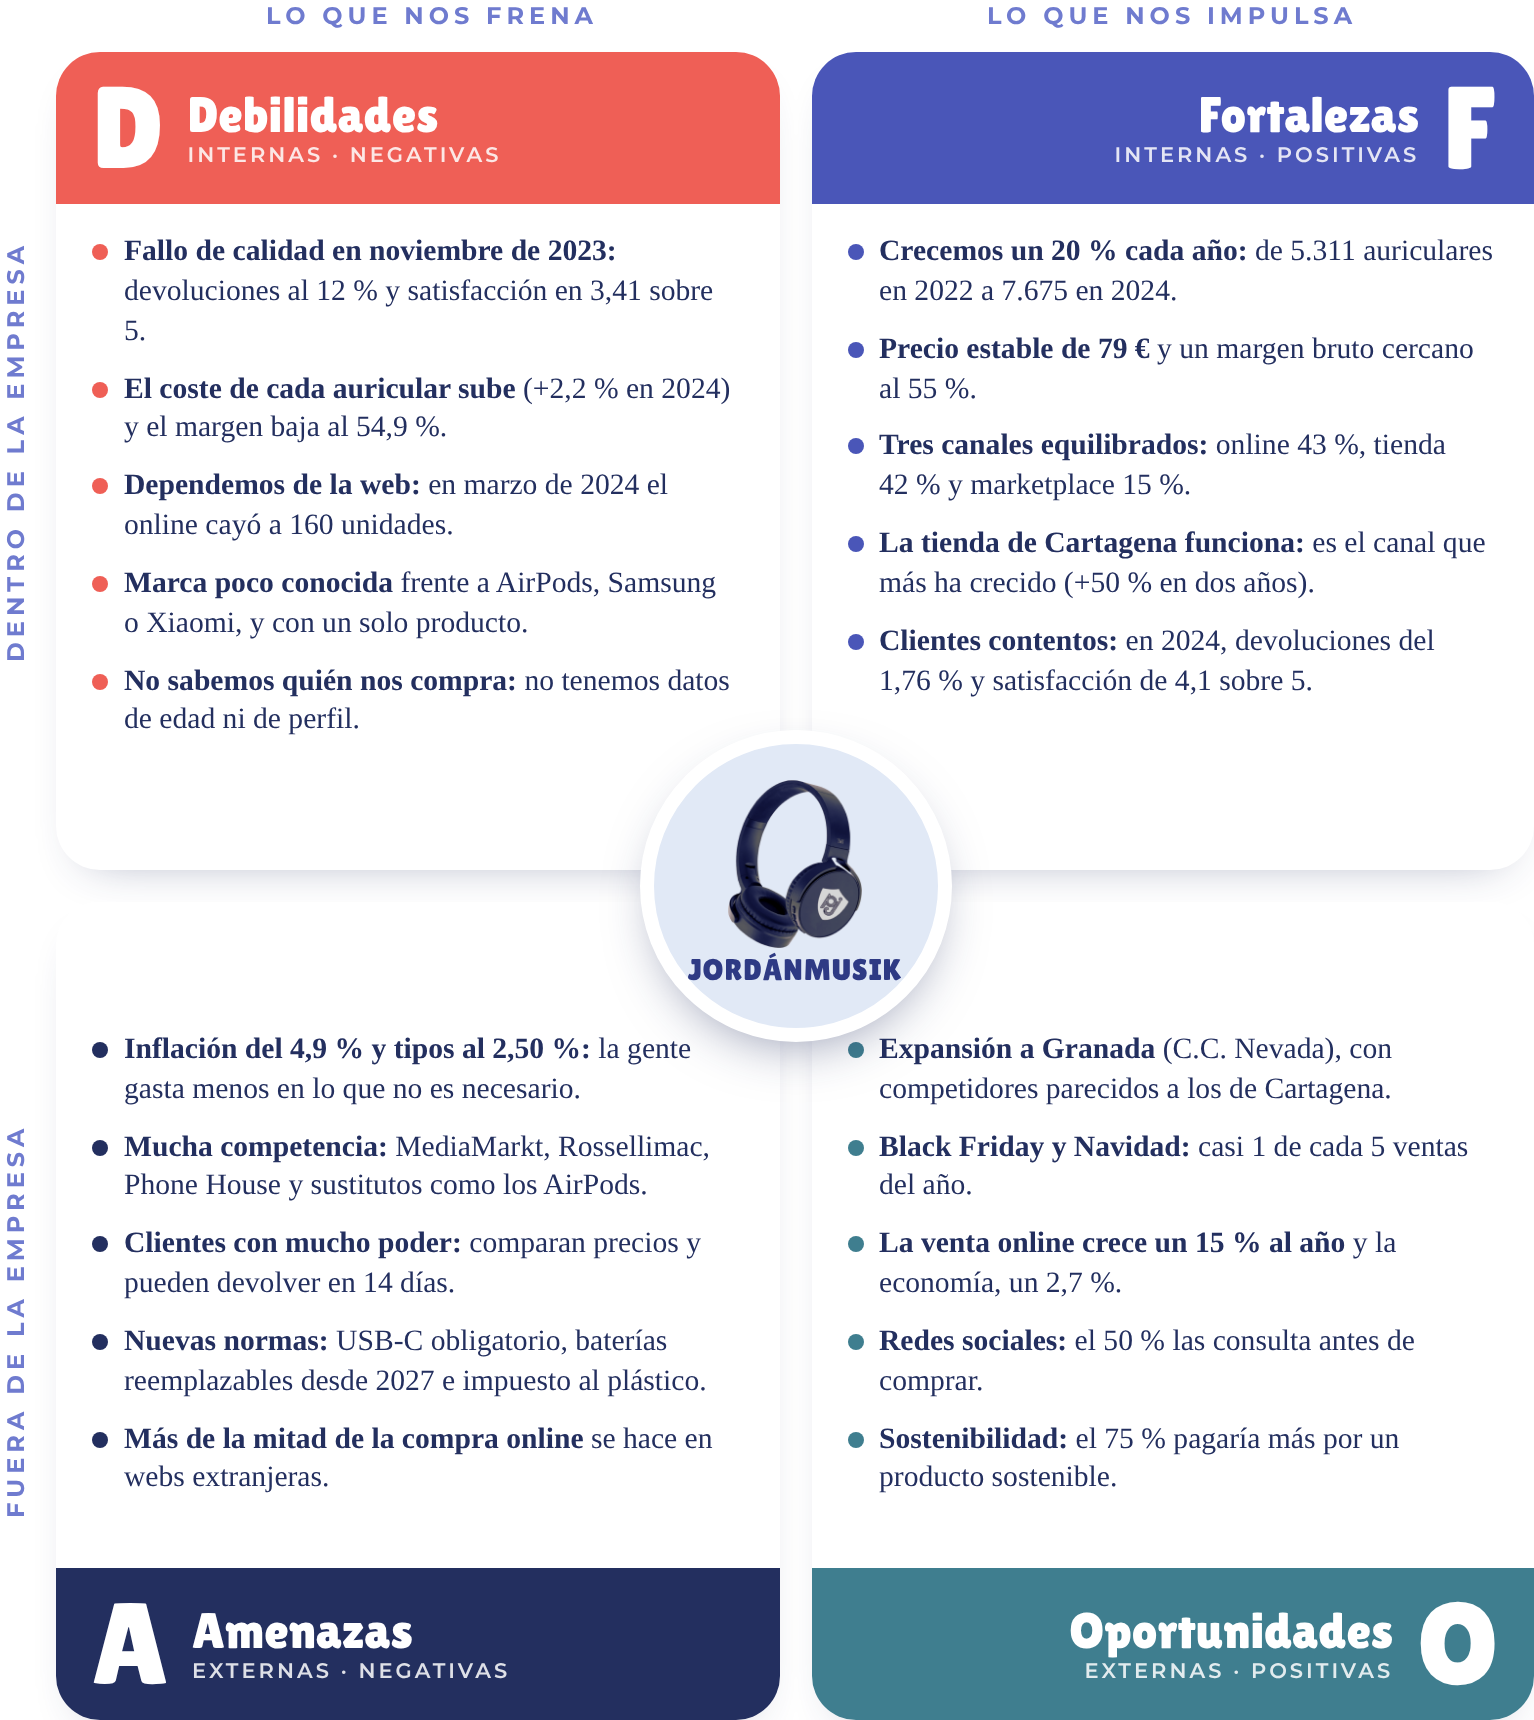
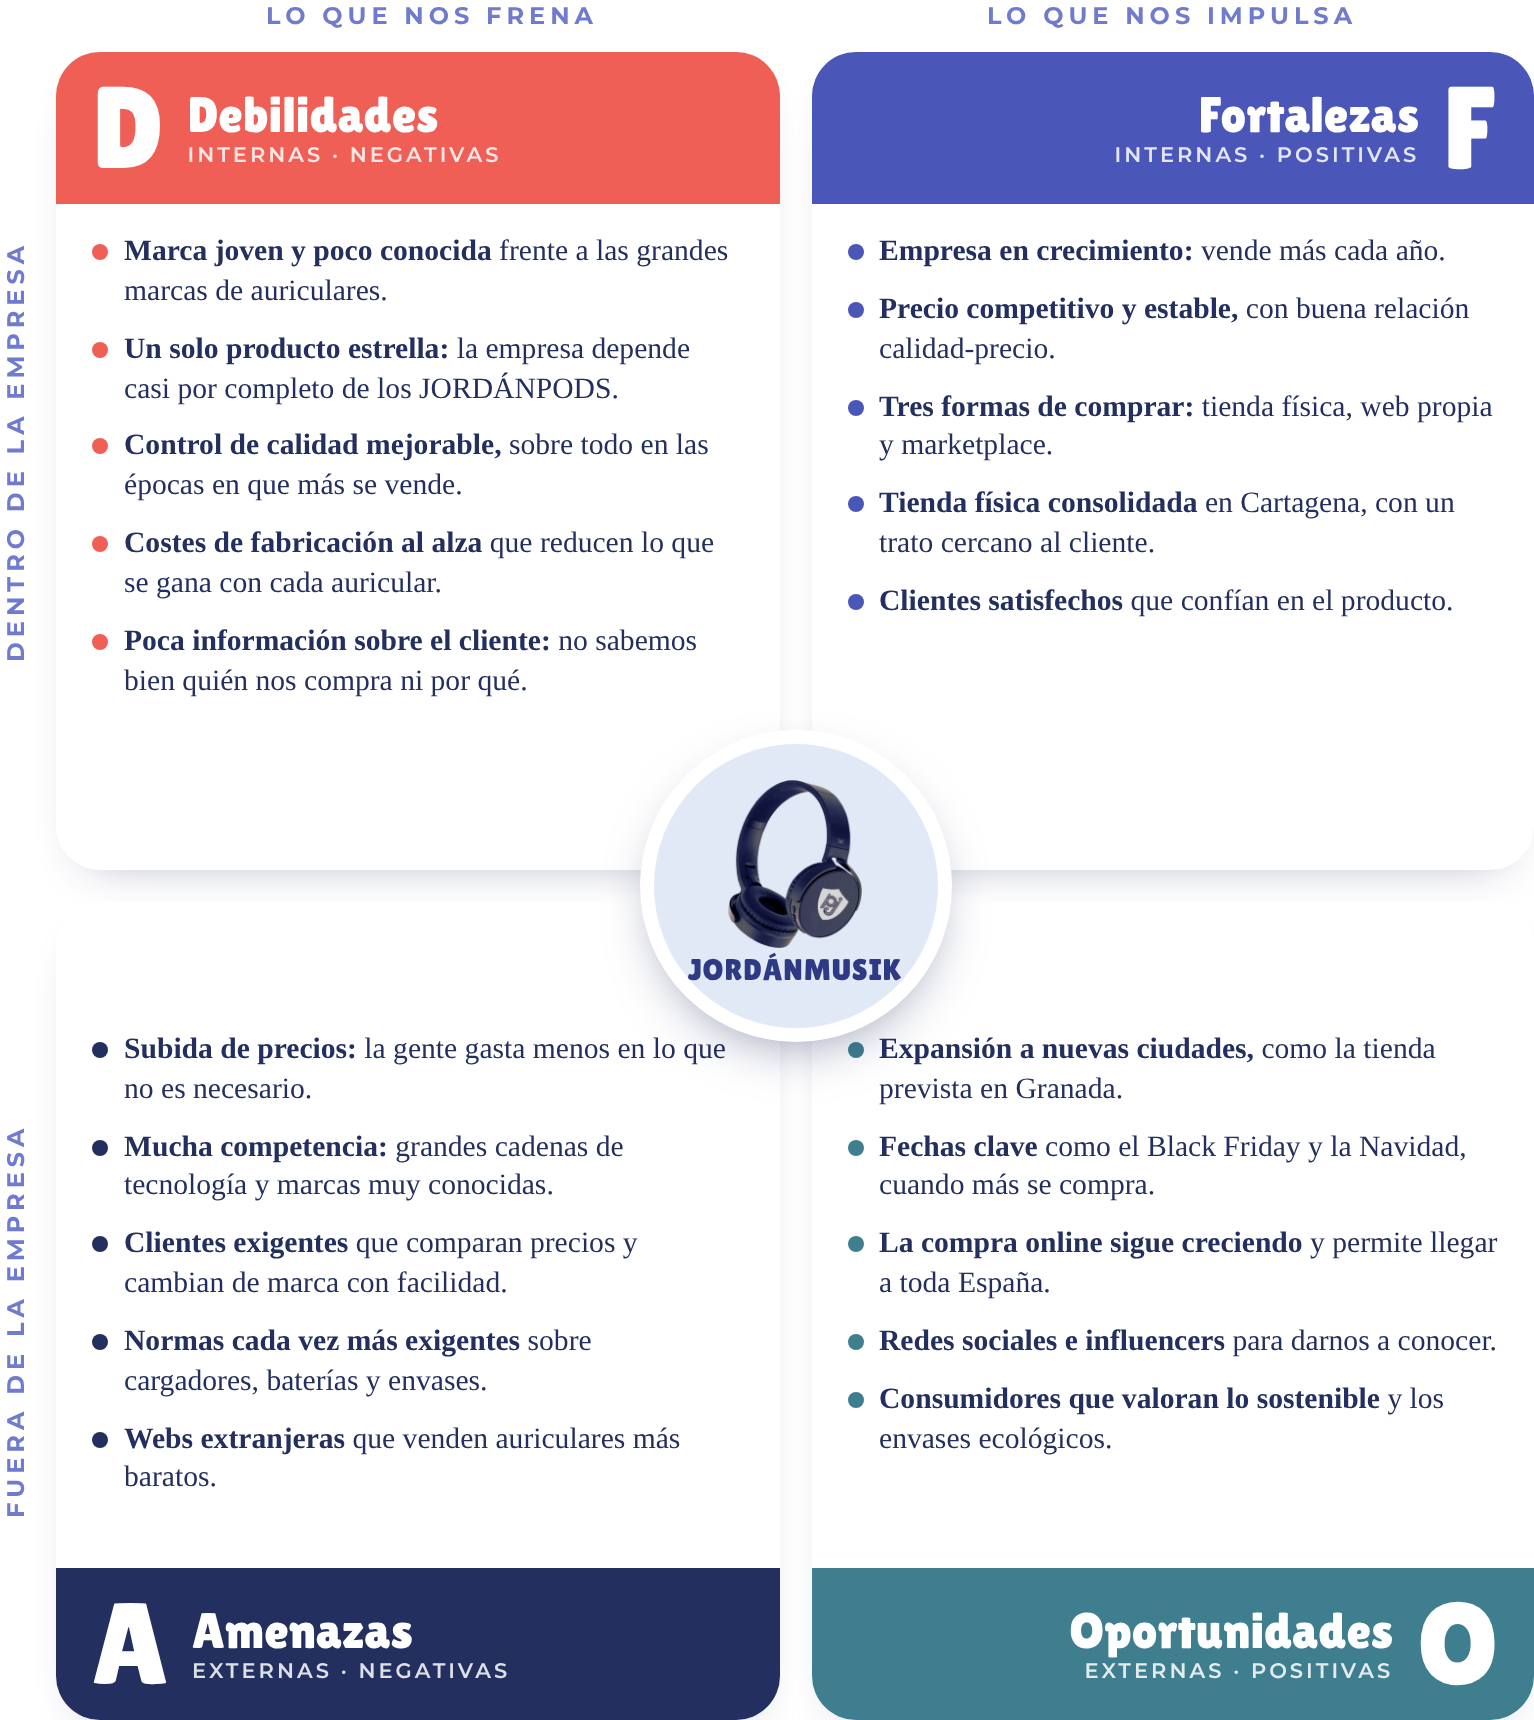
DAFO: puntos generales de la empresa, sin cifras concretas
Claude-Session: https://claude.ai/code/session_01QoRa6H288JEqWWG4NNqZ48

diff --git a/dafo/diseno_dafo.html b/dafo/diseno_dafo.html
@@ -42,7 +42,7 @@ body.transp .topbar,body.transp .corner,body.transp .foot,body.transp h1,body.tr
 </style></head><body>
 <div class="topbar">Sistema de análisis</div><div class="corner"></div>
 <h1><span>4.1</span> Análisis DAFO</h1>
-<div class="intro">Con todo lo que hemos recogido (el entorno, el Excel de ventas y la encuesta) resumimos la situación de <b>JORDÁNMUSIK</b>: lo que depende de nosotros, <b>debilidades y fortalezas</b>, y lo que llega de fuera, <b>amenazas y oportunidades</b>.</div>
+<div class="intro">Con todo lo que hemos analizado resumimos cómo es <b>JORDÁNMUSIK</b>: lo que depende de nosotros, <b>debilidades y fortalezas</b>, y lo que llega de fuera, <b>amenazas y oportunidades</b>.</div>
 <div id="dafo">
  <div class="colh" style="left:46px">Lo que nos frena</div>
  <div class="colh" style="left:416px">Lo que nos impulsa</div>
@@ -50,29 +50,29 @@ body.transp .topbar,body.transp .corner,body.transp .foot,body.transp h1,body.tr
  <div class="rowh" style="top:460px">Fuera de la empresa</div>
  <div class="grid">
   <div class="card D top left"><div class="band"><span class="L">D</span><span class="W">Debilidades<small>Internas · negativas</small></span></div><ul>
-   <li><b>Fallo de calidad en noviembre de 2023:</b> devoluciones al 12&nbsp;% y satisfacción en 3,41 sobre 5.</li>
-   <li><b>El coste de cada auricular sube</b> (+2,2&nbsp;% en 2024) y el margen baja al 54,9&nbsp;%.</li>
-   <li><b>Dependemos de la web:</b> en marzo de 2024 el online cayó a 160 unidades.</li>
-   <li><b>Marca poco conocida</b> frente a AirPods, Samsung o Xiaomi, y con un solo producto.</li>
-   <li><b>No sabemos quién nos compra:</b> no tenemos datos de edad ni de perfil.</li></ul></div>
+   <li><b>Marca joven y poco conocida</b> frente a las grandes marcas de auriculares.</li>
+   <li><b>Un solo producto estrella:</b> la empresa depende casi por completo de los JORDÁNPODS.</li>
+   <li><b>Control de calidad mejorable,</b> sobre todo en las épocas en que más se vende.</li>
+   <li><b>Costes de fabricación al alza</b> que reducen lo que se gana con cada auricular.</li>
+   <li><b>Poca información sobre el cliente:</b> no sabemos bien quién nos compra ni por qué.</li></ul></div>
   <div class="card F top right"><div class="band"><span class="W">Fortalezas<small>Internas · positivas</small></span><span class="L">F</span></div><ul>
-   <li><b>Crecemos un 20&nbsp;% cada año:</b> de 5.311 auriculares en 2022 a 7.675 en 2024.</li>
-   <li><b>Precio estable de 79 €</b> y un margen bruto cercano al 55&nbsp;%.</li>
-   <li><b>Tres canales equilibrados:</b> online 43&nbsp;%, tienda 42&nbsp;% y marketplace 15&nbsp;%.</li>
-   <li><b>La tienda de Cartagena funciona:</b> es el canal que más ha crecido (+50&nbsp;% en dos años).</li>
-   <li><b>Clientes contentos:</b> en 2024, devoluciones del 1,76&nbsp;% y satisfacción de 4,1 sobre 5.</li></ul></div>
+   <li><b>Empresa en crecimiento:</b> vende más cada año.</li>
+   <li><b>Precio competitivo y estable,</b> con buena relación calidad-precio.</li>
+   <li><b>Tres formas de comprar:</b> tienda física, web propia y marketplace.</li>
+   <li><b>Tienda física consolidada</b> en Cartagena, con un trato cercano al cliente.</li>
+   <li><b>Clientes satisfechos</b> que confían en el producto.</li></ul></div>
   <div class="card A bottom left"><div class="band"><span class="L">A</span><span class="W">Amenazas<small>Externas · negativas</small></span></div><ul>
-   <li><b>Inflación del 4,9&nbsp;% y tipos al 2,50&nbsp;%:</b> la gente gasta menos en lo que no es necesario.</li>
-   <li><b>Mucha competencia:</b> MediaMarkt, Rossellimac, Phone House y sustitutos como los AirPods.</li>
-   <li><b>Clientes con mucho poder:</b> comparan precios y pueden devolver en 14 días.</li>
-   <li><b>Nuevas normas:</b> USB-C obligatorio, baterías reemplazables desde 2027 e impuesto al plástico.</li>
-   <li><b>Más de la mitad de la compra online</b> se hace en webs extranjeras.</li></ul></div>
+   <li><b>Subida de precios:</b> la gente gasta menos en lo que no es necesario.</li>
+   <li><b>Mucha competencia:</b> grandes cadenas de tecnología y marcas muy conocidas.</li>
+   <li><b>Clientes exigentes</b> que comparan precios y cambian de marca con facilidad.</li>
+   <li><b>Normas cada vez más exigentes</b> sobre cargadores, baterías y envases.</li>
+   <li><b>Webs extranjeras</b> que venden auriculares más baratos.</li></ul></div>
   <div class="card O bottom right"><div class="band"><span class="W">Oportunidades<small>Externas · positivas</small></span><span class="L">O</span></div><ul>
-   <li><b>Expansión a Granada</b> (C.C. Nevada), con competidores parecidos a los de Cartagena.</li>
-   <li><b>Black Friday y Navidad:</b> casi 1 de cada 5 ventas del año.</li>
-   <li><b>La venta online crece un 15&nbsp;% al año</b> y la economía, un 2,7&nbsp;%.</li>
-   <li><b>Redes sociales:</b> el 50&nbsp;% las consulta antes de comprar.</li>
-   <li><b>Sostenibilidad:</b> el 75&nbsp;% pagaría más por un producto sostenible.</li></ul></div>
+   <li><b>Expansión a nuevas ciudades,</b> como la tienda prevista en Granada.</li>
+   <li><b>Fechas clave</b> como el Black Friday y la Navidad, cuando más se compra.</li>
+   <li><b>La compra online sigue creciendo</b> y permite llegar a toda España.</li>
+   <li><b>Redes sociales e influencers</b> para darnos a conocer.</li>
+   <li><b>Consumidores que valoran lo sostenible</b> y los envases ecológicos.</li></ul></div>
  </div>
  <div class="hub"><img src="jordanpods.png" alt=""><span>JORDÁNMUSIK</span></div>
 </div>
